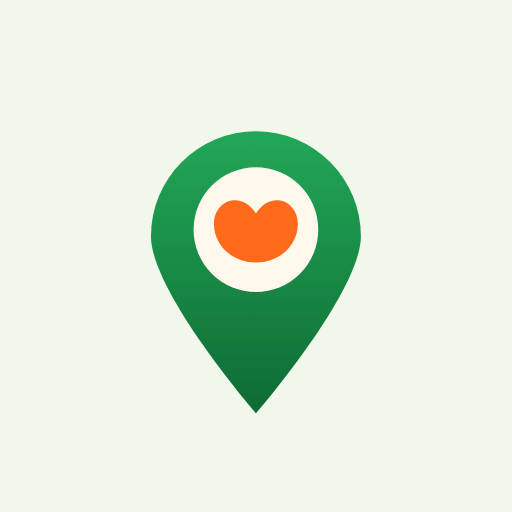
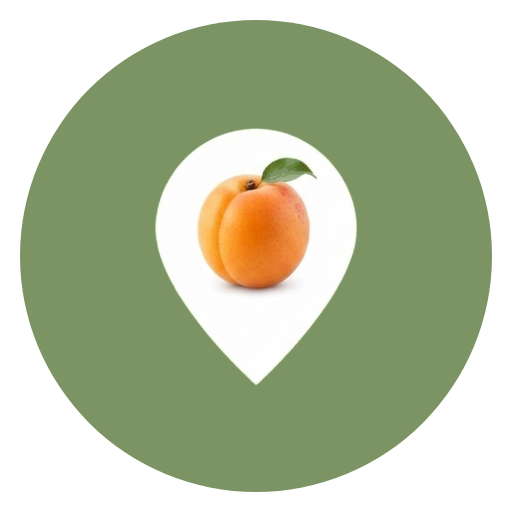
Adopt the apricot pin as the mark, everywhere the site has one
The old mark was a hand-drawn SVG pin with an abstract fruit in it. This
replaces it with the supplied drawing: a sage disc, a pin bitten out of
it, an apricot inside the pin.

One source, six outputs, built by `npm run brand`. The script finds the
disc and the pin in the picture rather than trusting fixed coordinates,
then repaints the green as a flat fill and lifts the pin out on its own.
The disc in the original is a photograph of a flat colour — faintly noisy,
which a PNG cannot compress and which shows as mottling at small sizes.
Repainting it cut the 512px icon from 222 KB to 86 KB and the page's own
copy to 6 KB.

They are not the same image at different sizes:

- The page gets a WebP with nothing outside the disc, so it sits on any
  background.
- The Apple touch icon gets a white square behind it, because a
  transparent one comes out black on an iPhone home screen.
- The maskable icon runs green to all four corners with the pin alone in
  the safe circle. Android crops that one to a shape of its own choosing,
  and a shrunken disc would swim in a white ring.

Also adds the link-preview card the site never had. Most people meet
ԲերքաՏեղ through a link pasted into Messenger, and until now that link
arrived as text with no picture at all.

Claude-Session: https://claude.ai/code/session_01GBq5fo1ZAT1n3SrbL7Y1Ek

diff --git a/index.html b/index.html
@@ -13,7 +13,7 @@
       content="ԲերքաՏեղ — քարտեզային հարթակ, որտեղ գյուղի փոքր ֆերմերային տնտեսությունները վաճառում են իրենց բերքը ուղիղ գնորդին, առանց միջնորդի։"
     />
 
-    <link rel="icon" href="/favicon.svg" type="image/svg+xml" />
+    <link rel="icon" href="/favicon-96.png" type="image/png" sizes="96x96" />
     <link rel="apple-touch-icon" href="/icon-192.png" />
     <link rel="manifest" href="/manifest.webmanifest" />
 
@@ -31,6 +31,11 @@
     />
     <meta property="og:type" content="website" />
     <meta property="og:locale" content="hy_AM" />
+    <!-- Most people meet the site through a link pasted into Messenger. -->
+    <meta property="og:image" content="https://berqategh.am/og-image.png" />
+    <meta property="og:image:width" content="1200" />
+    <meta property="og:image:height" content="630" />
+    <meta name="twitter:card" content="summary_large_image" />
   </head>
   <body>
     <div id="root"></div>

diff --git a/src/App.tsx b/src/App.tsx
@@ -275,7 +275,7 @@ export default function App() {
     <div className="app">
       <header className="app-header">
         <div className="brand">
-          <img src="/favicon.svg" alt="" className="brand-mark" />
+          <img src="/logo.webp" alt="" className="brand-mark" />
           <span>
             ԲերքաՏեղ
             <span className="brand-sub" style={{ display: 'block' }}>

diff --git a/src/components/RoleGate.tsx b/src/components/RoleGate.tsx
@@ -10,7 +10,7 @@ export default function RoleGate({ onPick }: { onPick: (role: Role) => void }) {
   return (
     <div className="gate">
       <div className="gate-inner">
-        <img src="/favicon.svg" alt="" className="gate-logo" />
+        <img src="/logo.webp" alt="" className="gate-logo" />
 
         <h1>
           Բարի գալուստ <em>ԲերքաՏեղ</em>

diff --git a/brand/README.md b/brand/README.md
@@ -1,0 +1,25 @@
+# Լոգոն
+
+`logo-source.png`-ը **բնօրինակն** է՝ կանաչ շրջան, նրա մեջ սպիտակ նշիչ, նշիչի
+ներսում՝ ծիրան։ Ամեն ինչ մնացածը գեներացվում է դրանից՝
+
+```
+npm run brand
+```
+
+Փոխարկիչը ինքը գտնում է շրջանը և նշիչը նկարի մեջ, ապա գունավոր ֆոնը վերագծում է
+մաքուր գույնով և վերցնում միայն նշիչը։ Այդ պատճառով ֆայլերը և՛ ավելի մաքուր են,
+և՛ մի քանի անգամ ավելի փոքր, քան պարզապես չափափոխելու դեպքում։
+
+## Ինչ է ստացվում
+
+| Ֆայլ | Որտեղ | Ինչու այդպես |
+| --- | --- | --- |
+| `public/logo.webp` | Էջի վերնագիրը և մուտքի էկրանը | Թափանցիկ շրջանից դուրս |
+| `public/favicon-96.png` | Բրաուզերի ներդիրը | |
+| `public/icon-192.png` | iPhone-ի հիմնական էկրան | Սպիտակ ֆոնով. թափանցիկ apple-touch-icon-ը սև է դառնում |
+| `public/icon-512.png` | Հավելվածի ցանկեր | |
+| `public/icon-maskable-512.png` | Android-ի հիմնական էկրան | Կանաչը հասնում է չորս անկյուն. հեռախոսն ինքն է որոշում՝ շրջան, քառակուսի թե այլ ձև |
+| `public/og-image.png` | Messenger-ում, Facebook-ում, LinkedIn-ում հղումը փակցնելիս | 1200×630 |
+
+Նոր լոգո դնելու համար փոխարինե՛ք `logo-source.png`-ը և գործարկեք `npm run brand`։
